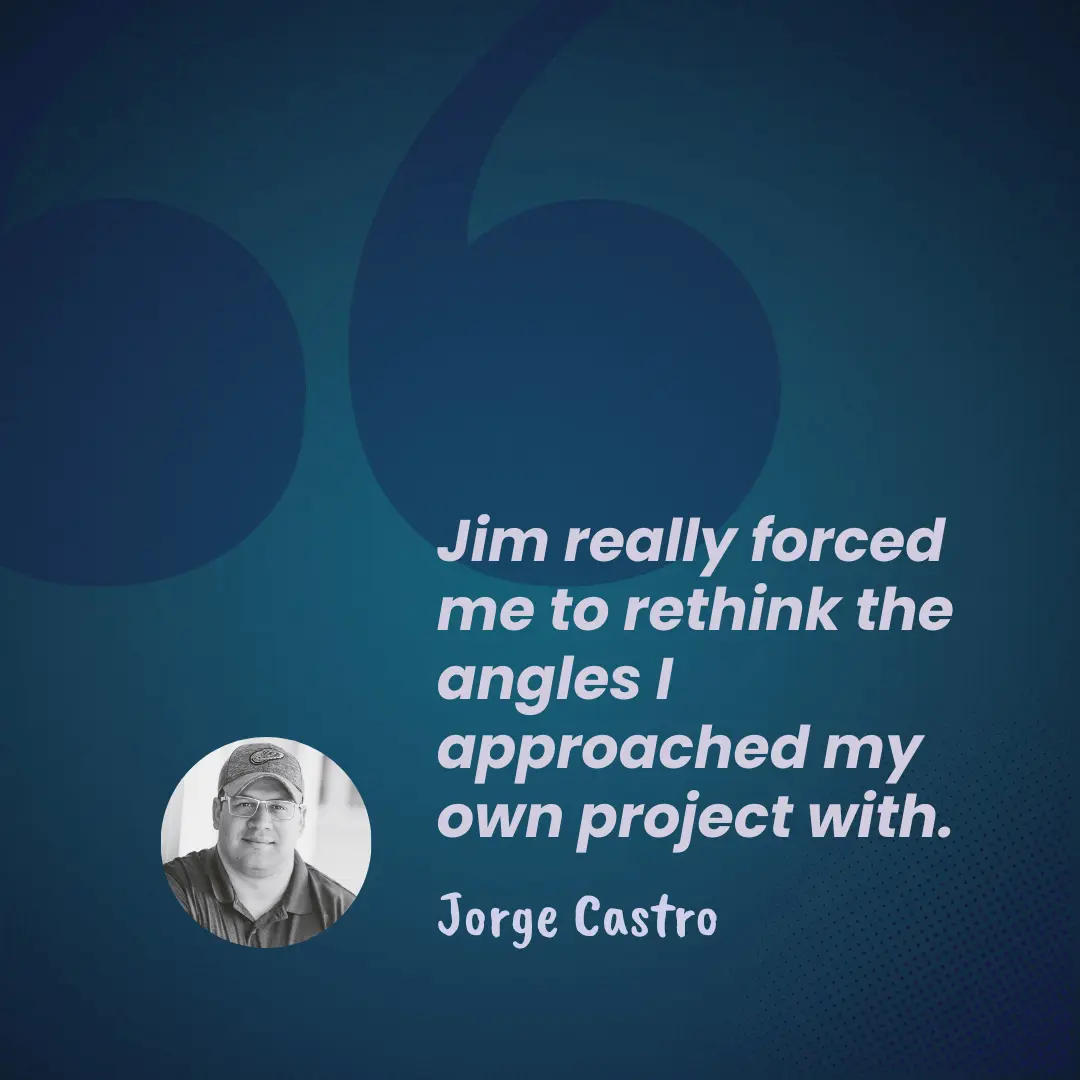
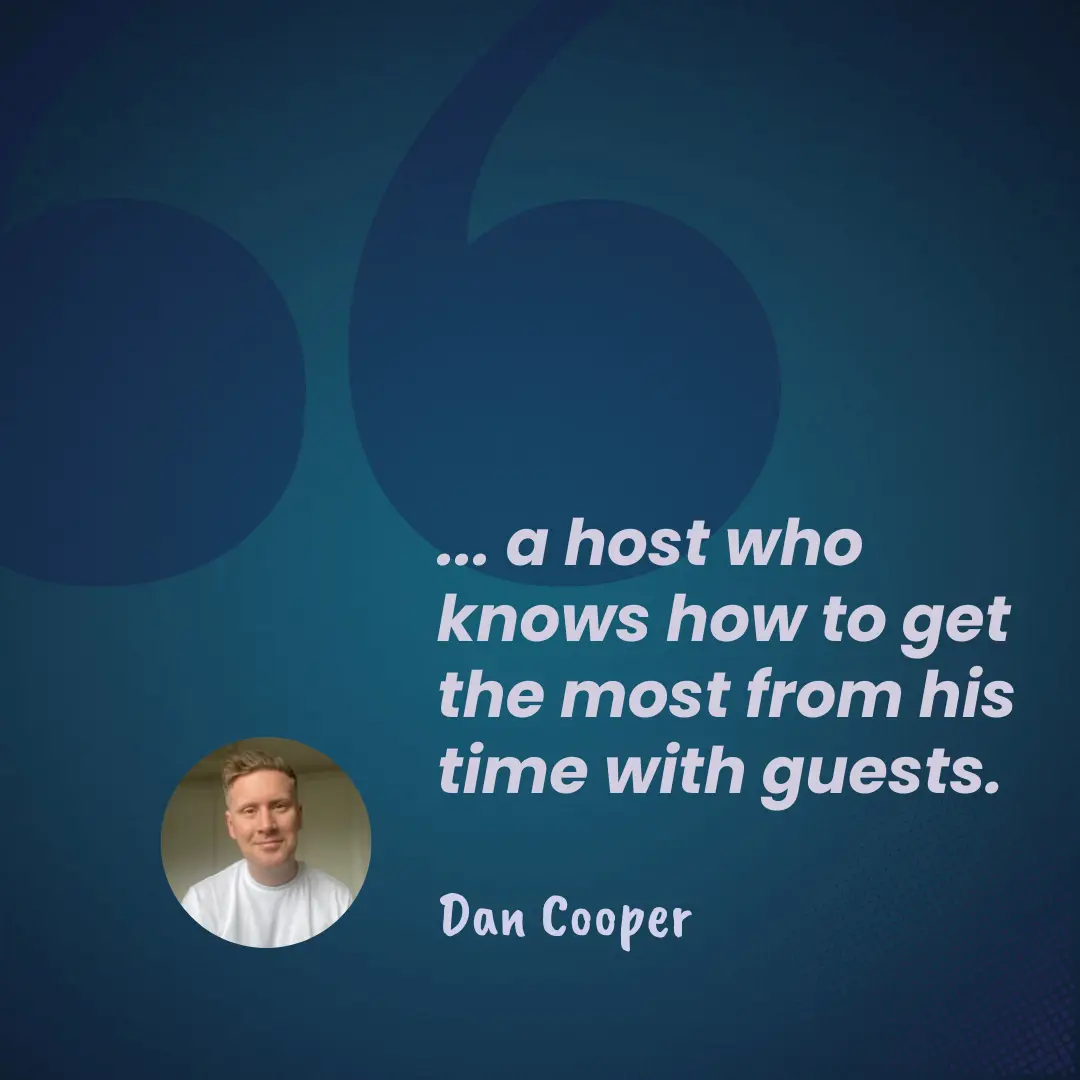
feat(testimonials): add new teaser

Changed region(s): [[0.3972, 0.4583, 0.9472, 0.7944], [0.1222, 0.6722, 0.3667, 0.8861], [0.3972, 0.825, 0.6722, 0.8861]]

diff --git a/content/testimonials/index.md b/content/testimonials/index.md
@@ -8,7 +8,7 @@ title: "Testimonials - Jibber Jabber with Jim | Podcast Reviews"
 type: "page"
 ---
 
-{{< img src="teaser.webp" alt="Testimonial for the Jibber Jabber with Jim podcast. Jorge Castro writes: 'Jim really forced me to rethink the angles I approached my own project with.'" loading="eager" >}}
+{{< img src="teaser.webp" alt="Testimonial for the Jibber Jabber with Jim podcast. Dan Cooper writes: '... a host who knows how to get the most from his time with guests.'" loading="eager" >}}
 
 Whether they're [musicians](#phil-poole), [educators](#leo-carr), or [innovators](#sean-tilson) - here's what guests and fans have to say about the [Jibber Jabber with Jim](/jibberjabberwithjim/) podcast...
 
@@ -121,6 +121,8 @@ Whether they're [musicians](#phil-poole), [educators](#leo-carr), or [innovators
 {{< youtube id=UNNN_JIzmeg loading=lazy >}}
 
 ## Jorge Castro - Founder of Universal Blue {#jorge-castro}
+
+{{< img src="jorge-castro-testimonial.webp" alt="Testimonial for the Jibber Jabber with Jim podcast. Jorge Castro writes: 'Jim really forced me to rethink the angles I approached my own project with.'" >}}
 
 > Jim really forced me to rethink the angles I approached my own project with.
 >
